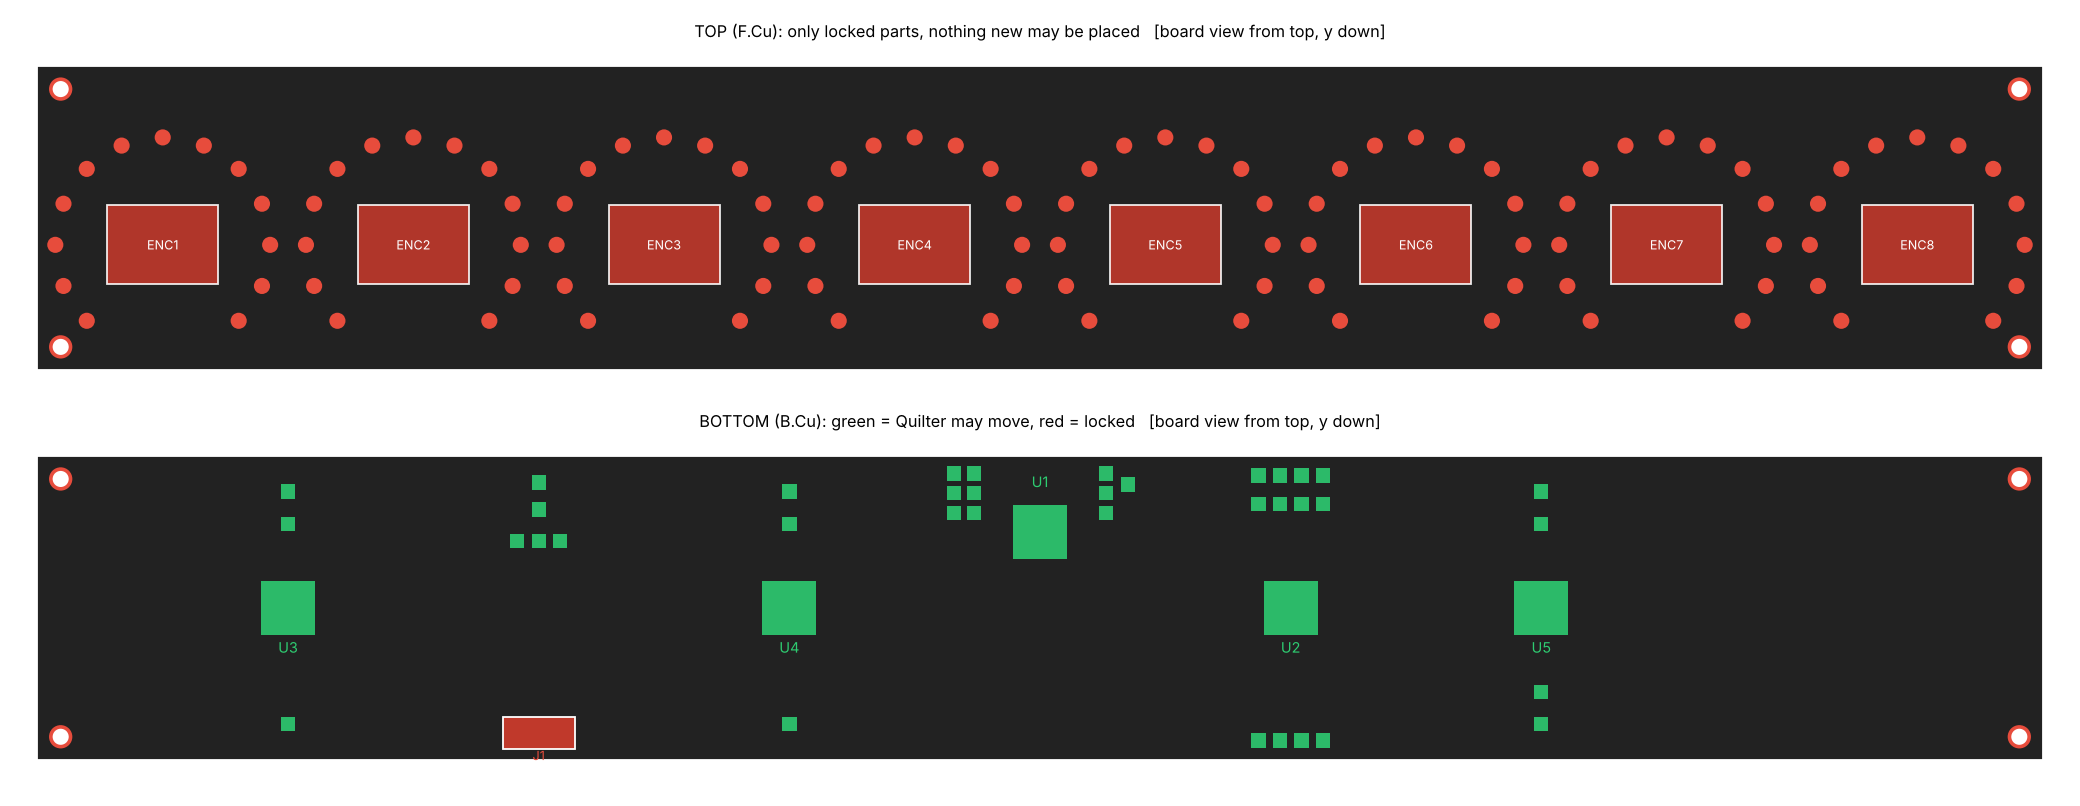
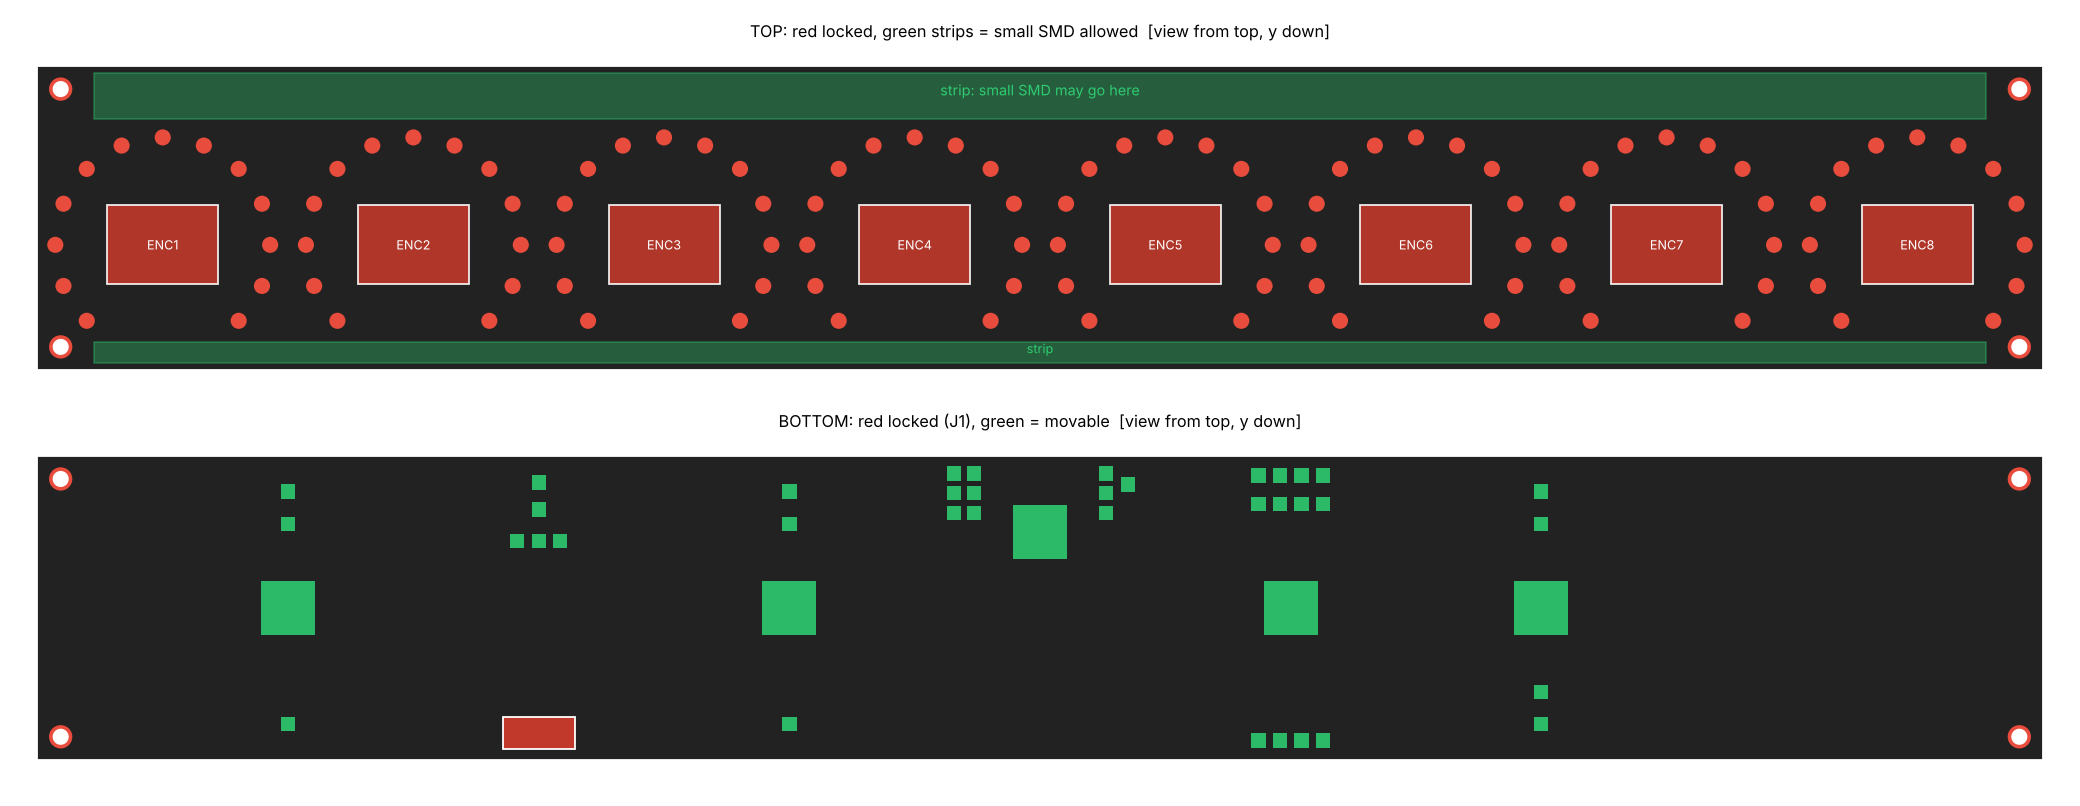
M1 Quilter job C: top strips for small SMD parts, fixed/movable map
Claude-Session: https://claude.ai/code/session_01NJ9VLrgY2mHKQhwcNUndr6

Changed region(s): [[0.0312, 0.031, 0.9688, 0.1551], [0.0312, 0.4032, 0.9688, 0.4653], [0.3438, 0.4963, 0.6562, 0.5273]]

diff --git a/hardware/m1-screen-knobs/gen/make_quilter.py b/hardware/m1-screen-knobs/gen/make_quilter.py
@@ -5,10 +5,10 @@
                        and Quilter keeps parts inside the outline where they are)
   B_place_and_route  - only what the panel fixes is inside the outline (encoders, ring LEDs, J1,
                        mounting holes); ICs and passives wait below the board for Quilter to place
-  C_small_parts_free - A plus the placement filter: ICs and passives start where our layout put them
-                       (inside the outline, bottom side) and may move, but only on the bottom side
-                       (F.Cu footprint keep-out + B.Cu placement region). Encoders, ring LEDs, J1 and
-                       mounting holes stay locked. Use this when A is too hard to route.
+  C_small_parts_free - A plus placement filters: ICs and passives start where our layout put them and
+                       may move: anywhere on the bottom, and on the top only inside two free strips
+                       (rear and front, see TOP_STRIPS). Encoders, ring LEDs, J1 and mounting holes
+                       stay locked. Use this when A is too hard to route.
 
 No tracks, no bottom pour. The In1 plane is renamed "GND" so Quilter recognises it.
 Keep-outs under the encoder bodies (touch electrodes) are rule areas Quilter respects.
@@ -27,7 +27,7 @@ import make_pcb as M
 FIXED = ("ENC", "D", "J", "H")
 
 
-def placement_region(b):
+def placement_region(b, top_keepout=True):
     """Quilter placement region: a KiCad rule area with every keep-out item off,
     linked to the bottom copper. ICs and passives are assigned to it in Quilter by
     reference, so they stay on the back (the top belongs to encoders and LEDs)."""
@@ -42,6 +42,8 @@ def placement_region(b):
     b.Add(z)
     # Quilter did not pick the region up from our KiCad 7 file, so the top side also gets a
     # footprint keep-out: nothing new may be placed there (the locked encoders and LEDs stay)
+    if not top_keepout:
+        return
     z = pcbnew.ZONE(b)
     z.SetIsRuleArea(True)
     z.SetLayer(pcbnew.F_Cu)
@@ -52,6 +54,51 @@ def placement_region(b):
     z.SetZoneName("Top no new parts")
     rect(z)
     b.Add(z)
+
+
+# Top-side strips where small SMD parts may sit (job C). Found from the free-space map: rings (LED +
+# 2 mm guide wall), encoder cut-outs (+0.8 mm) and screw heads (r 3.5 mm) are blocked, the rest of the
+# top is free. The light guide gets a groove from below over these strips; every part there is <= 1.2 mm
+# (0402, 0805, TSSOP-16) and the guide is 6.4 mm thick. 7 x 7 mm U1 and TSSOP legs (6.4 mm) do not fit
+# the 5.1 mm rear strip, so ICs stay on the back.
+TOP_STRIPS = {"Top strip rear": (6.3, 0.8, D.W - 6.3, 5.9), "Top strip front": (6.3, 30.8, D.W - 6.3, D.H - 0.8)}
+
+
+def top_filter(b):
+    """F.Cu: footprints are forbidden everywhere except the two strips (board rectangle minus strips),
+    and the strips themselves are placement regions."""
+    z = pcbnew.ZONE(b)
+    z.SetIsRuleArea(True)
+    z.SetLayer(pcbnew.F_Cu)
+    for allow in (z.SetDoNotAllowTracks, z.SetDoNotAllowVias, z.SetDoNotAllowCopperPour,
+                  z.SetDoNotAllowPads):
+        allow(False)
+    z.SetDoNotAllowFootprints(True)
+    z.SetZoneName("Top: locked parts only")
+    rect(z)
+    o = z.Outline()
+    cut = pcbnew.SHAPE_POLY_SET()
+    for x0, y0, x1, y1 in TOP_STRIPS.values():
+        cut.NewOutline()
+        for x, y in ((x0, y0), (x1, y0), (x1, y1), (x0, y1)):
+            q = M.P(x, y)
+            cut.Append(q.x, q.y)
+    o.BooleanSubtract(cut, pcbnew.SHAPE_POLY_SET.PM_FAST)
+    b.Add(z)
+    for name, (x0, y0, x1, y1) in TOP_STRIPS.items():
+        r = pcbnew.ZONE(b)
+        r.SetIsRuleArea(True)
+        r.SetLayer(pcbnew.F_Cu)
+        for allow in (r.SetDoNotAllowTracks, r.SetDoNotAllowVias, r.SetDoNotAllowCopperPour,
+                      r.SetDoNotAllowPads, r.SetDoNotAllowFootprints):
+            allow(False)
+        r.SetZoneName(name)
+        o = r.Outline()
+        o.NewOutline()
+        for x, y in ((x0, y0), (x1, y0), (x1, y1), (x0, y1)):
+            q = M.P(x, y)
+            o.Append(q.x, q.y)
+        b.Add(r)
 
 
 def rect(z, m=0.5):
@@ -100,7 +147,8 @@ def main(out):
                 fp.SetPosition(M.P(x, y))
             placement_region(b)
         if job.startswith("C"):
-            placement_region(b)      # parts keep our positions; the filter only keeps them on the back
+            placement_region(b, top_keepout=False)   # parts keep our positions, may move on the back ...
+            top_filter(b)                            # ... or into the two top strips
         path = os.path.join(d, D.NAME + ".kicad_pcb")
         b.Save(path)
         for ext in (".kicad_sch", ".kicad_pro"):

diff --git a/hardware/m1-screen-knobs/QUILTER.md b/hardware/m1-screen-knobs/QUILTER.md
@@ -15,7 +15,7 @@ unlocked parts (U1-U5, resistors, capacitors) and must keep these rules:
 | Touch lines | TOUCH0-7 from R7-R14 to each encoder MP pin: short, away from SW/CS lines where possible |
 | LED driver U1 | IS31FL3741A, QFN-60 0.4 mm; thermal vias in the exposed pad; keep its decoupling (C1-C4) close |
 
-Inputs: run `gen/make_quilter.py OUT` - three jobs: `A_route_only` (our placement, routing only), `B_place_and_route` (only panel-fixed parts inside the outline) and `C_small_parts_free` (our placement, ICs and passives may move, bottom side only). Upload the three files of one job: `.kicad_pcb`, `.kicad_sch`, `.kicad_pro` (no zip).
+Inputs: run `gen/make_quilter.py OUT` - three jobs: `A_route_only` (our placement, routing only), `B_place_and_route` (only panel-fixed parts inside the outline) and `C_small_parts_free` (our placement, ICs and passives may move: anywhere on the bottom, on the top only inside two free strips). Upload the three files of one job: `.kicad_pcb`, `.kicad_sch`, `.kicad_pro` (no zip).
 Output wanted: the routed `.kicad_pcb` (same nets), which CI then checks with KiCad 10 (DRC with schematic parity).
 
 Each job folder also gets `bypass_capacitors.csv`, `high_current_nets.csv` and `ground_nets.csv` for the
@@ -26,12 +26,18 @@ Circuit Comprehension step ("Upload CSV"); column names follow Quilter's own CSV
 | Group | Parts | Rule |
 |---|---|---|
 | Locked (the panel decides) | ENC1-8, D1-D104, J1, H1-H4 (117 parts) | never move |
-| Movable | U1-U5, R1-R18, RN1-RN6, C1-C13 (42 parts) | Quilter may move them, bottom side only |
-| Top side filter (job C) | rule area "Top no new parts" (F.Cu, footprints disallowed) | nothing new on the top |
-| Bottom region (job C) | rule area "Bottom parts" (B.Cu, everything allowed) | where movable parts may go |
+| Movable | U1-U5, R1-R18, RN1-RN6, C1-C13 (42 parts) | Quilter may move them |
+| Bottom (job C) | rule area "Bottom parts" (B.Cu, everything allowed) | all movable parts |
+| Top (job C) | strips "Top strip rear" 211 x 5.1 mm (y 0.8-5.9) and "Top strip front" 211 x 2.4 mm (y 30.8-33.2) | small SMD only (0402, 0805, RN) |
+| Top, everything else | rule area "Top: locked parts only" (footprints disallowed) | nothing new |
 
-Job A result (Nov 6, 1h 28m): 1 candidate, 12 incomplete nets, 8 of 13 bypass capacitors flagged. Job C gives the placer room to
-fix exactly that, without touching the top.
+Why the top is free in the strips: the light guide is 6.4 mm thick and every movable part is at most 1.2 mm high
+(0402, 0805, TSSOP-16). The guide gets a groove from below over the strips (like the J1 pocket), made from the final
+placement. The strips follow from a free-space map: ring LED + 2 mm wall, encoder cut-out + 0.8 mm, screw head r 3.5 mm
+and 0.8 mm board edge are blocked. U1 (7 x 7 mm QFN) and the 74HC165 (legs 6.4 mm) do not fit the 5.1 mm strip: ICs stay on the back.
+Top and bottom regions are a union for the parts assigned to both (Quilter: two-sided region).
+
+Job A result (Nov 6, 1h 28m): 1 candidate, 12 incomplete nets, 8 of 13 bypass capacitors flagged.
 
 ## What we learned on app.quilter.ai (November 2026)
 
